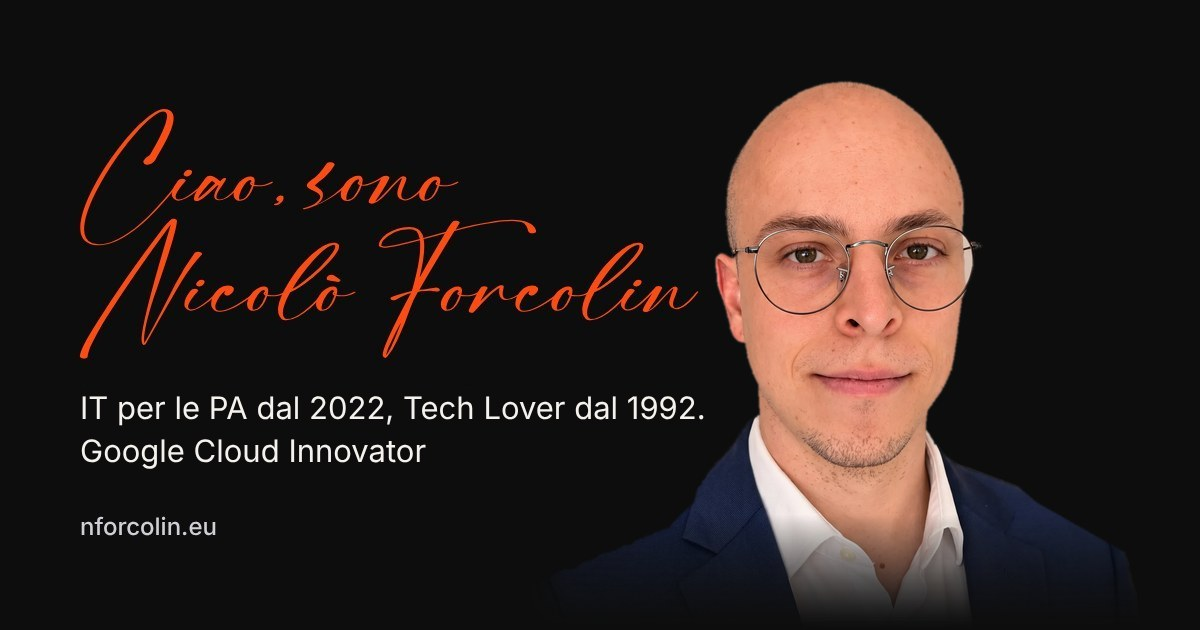
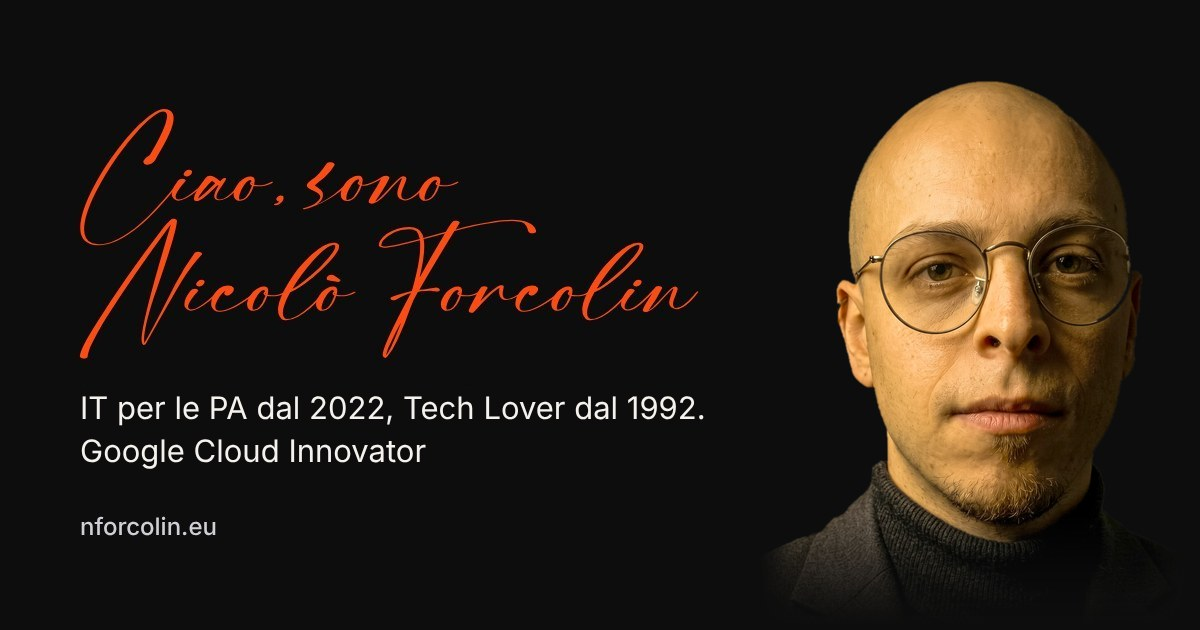
Torna la foto di prima (primo piano scuro), schiarita
Claude-Session: https://claude.ai/code/session_013V1PHsXmyXHJ8mUMRufPdc

Changed region(s): [[0.5242, 0.1206, 0.9558, 0.9651]]

diff --git a/home-editorial.css b/home-editorial.css
@@ -91,8 +91,7 @@ body[data-page="home"] .colophon{padding-bottom:24px}
  .hero-intro p:first-child{font-size:1.125rem;margin-bottom:14px}
  .hero-intro p:last-child{font-size:1rem;line-height:1.55}
  .hero-photo-frame{grid-row:1;align-self:stretch;width:100%;height:auto;min-height:0;max-height:none;margin:0 0 16px;overflow:hidden;position:relative;order:0}
- .hero-photo-frame{-webkit-mask-image:linear-gradient(to right,transparent,#000 9%,#000 91%,transparent);mask-image:linear-gradient(to right,transparent,#000 9%,#000 91%,transparent)}
- .hero-portrait{position:absolute;top:0;left:0;width:100%;max-width:none;height:100%;max-height:none;object-fit:contain;object-position:center bottom;transform:scale(1.2);transform-origin:50% 100%;mask-image:none;-webkit-mask-image:none}
+ .hero-portrait{position:absolute;top:0;left:0;width:100%;max-width:none;height:100%;max-height:none;object-fit:contain;object-position:center bottom;mask-image:none;-webkit-mask-image:none}
  .home-stats-list{grid-template-columns:1fr;gap:0;padding:10px 0}
  .home-stats-list li{display:flex;align-items:baseline;gap:16px;padding:10px 0}
  .home-stats-list strong{min-width:64px;font-size:1.75rem;margin:0}
@@ -118,7 +117,7 @@ body[data-page="home"] .colophon{padding-bottom:24px}
  .m-entry{display:block;position:relative;height:100svh;min-height:480px;overflow:hidden;margin:-68px -20px 0;background:var(--bg)}
  body[data-page="home"] .topbar{transition:transform 160ms ease-out,visibility 0s linear 0s}
  body.at-entry[data-page="home"] .topbar{transform:translateY(-100%);visibility:hidden;transition:transform 160ms ease-out,visibility 0s linear 160ms}
- .m-entry-photo{position:absolute;inset:0;width:100%;height:100%;object-fit:cover;object-position:center top}
+ .m-entry-photo{position:absolute;inset:0;width:100%;height:100%;object-fit:cover;object-position:center top;transform:translateY(-4%)}
  .m-entry::after{content:"";position:absolute;left:0;right:0;bottom:0;height:42%;background:linear-gradient(to bottom,transparent,var(--bg) 94%)}
  .m-entry-link{position:absolute;inset:0;z-index:2;display:flex;flex-direction:column;align-items:center;justify-content:flex-end;gap:10px;padding:0 20px calc(24px + env(safe-area-inset-bottom));text-decoration:none}
  .m-entry-name{font-family:var(--signature);font-size:min(3.25rem,12.5vw);line-height:1.25;color:var(--accent);white-space:nowrap;transform:translateX(.12em)}

diff --git a/index.html b/index.html
@@ -87,7 +87,7 @@
 
 <div class="editorial-shell"><main class="editorial-content">
 <section class="m-entry" aria-label="Ingresso" data-i18n-aria="entry_label">
-  <img class="m-entry-photo" src="photo-entry-mobile.webp?v=4" alt="" width="2000" height="2000" fetchpriority="high">
+  <img class="m-entry-photo" src="photo-entry-mobile.webp?v=5" alt="" width="1428" height="2560" fetchpriority="high">
   <a class="m-entry-link" href="#profilo"><span class="m-entry-name" aria-hidden="true">Nicolò Forcolin</span><span class="visually-hidden" data-i18n="scroll_btn">Entra nel sito</span><span class="entry-mark" aria-hidden="true"><span class="entry-line"></span><span class="entry-dot"></span></span></a>
 </section>
 <section class="hero" id="profilo" aria-labelledby="hero-name">
@@ -98,7 +98,7 @@
 
     </div>
     <div class="hero-photo-frame">
-      <img class="hero-portrait" id="avatarPhoto" src="photo.webp?v=37" alt="Nicolò Forcolin" width="1600" height="1383" fetchpriority="high">
+      <img class="hero-portrait" id="avatarPhoto" src="photo.webp?v=38" alt="Nicolò Forcolin" width="1428" height="1900" fetchpriority="high">
     </div>
   </div>
 </section>

diff --git a/tests/site-regression.test.js b/tests/site-regression.test.js
@@ -70,8 +70,8 @@ assert(home.includes('id="heroIntro"'), 'Hero intro paragraph missing');
 for (const language of ['it', 'en']) assert(dictionaries[language].includes('hero_intro:'), language + ': hero intro missing');
 assert(home.includes('data-i18n="skip_to_content"'), 'Skip link must be translated');
 assert(!home.includes('hero-cta-row'), 'The redundant hero links were removed');
-assert(home.includes('src="photo.webp?v=37"'), 'New portrait must be displayed');
-assert(home.includes('src="photo-entry-mobile.webp?v=4"') && fs.existsSync(path.join(root, 'photo-entry-mobile.webp')), 'The mobile entry screen uses the mobile portrait');
+assert(home.includes('src="photo.webp?v=38"'), 'New portrait must be displayed');
+assert(home.includes('src="photo-entry-mobile.webp?v=5"') && fs.existsSync(path.join(root, 'photo-entry-mobile.webp')), 'The mobile entry screen uses the mobile portrait');
 assert(!home.includes('class="info-dialog"'), 'Project dialogs were replaced by pages');
 
 assert(read('rag-aziendale.html').includes('data-i18n="c1_summary"'), 'RAG summary must remain');
